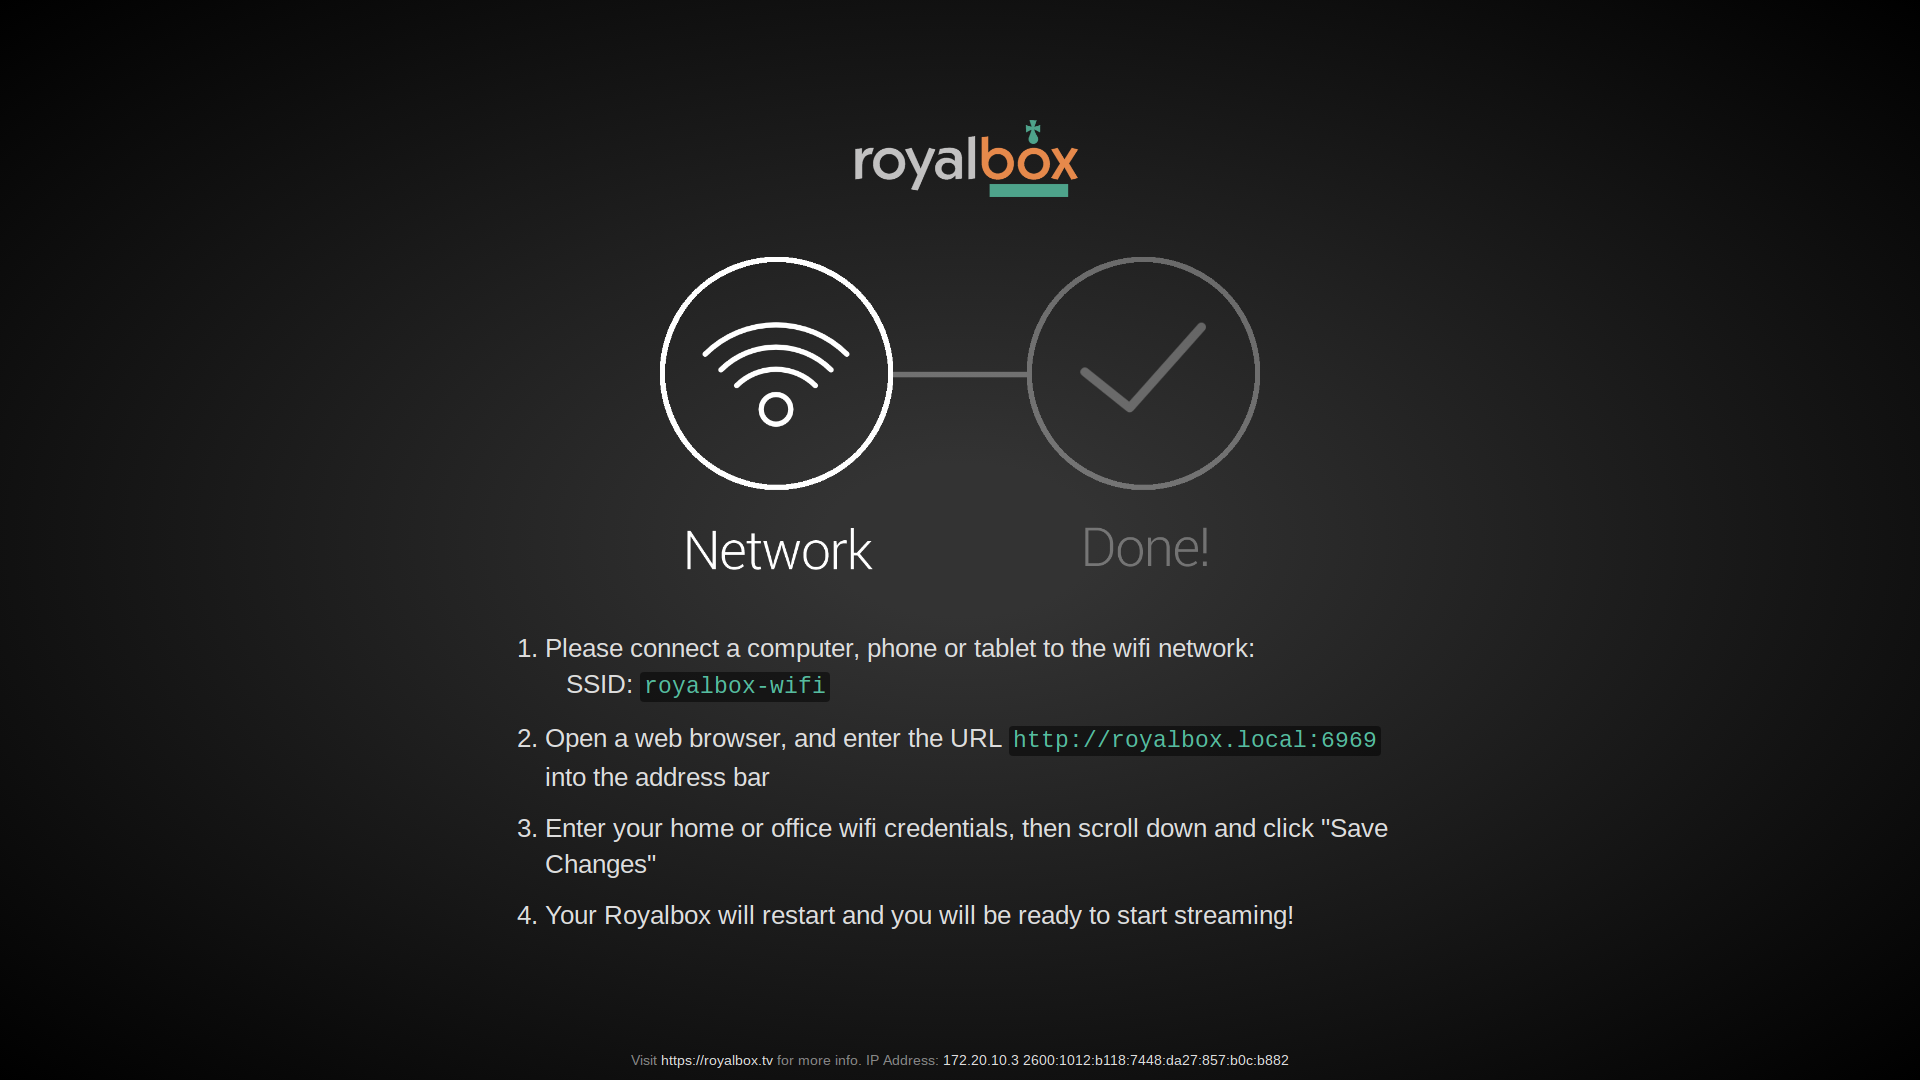
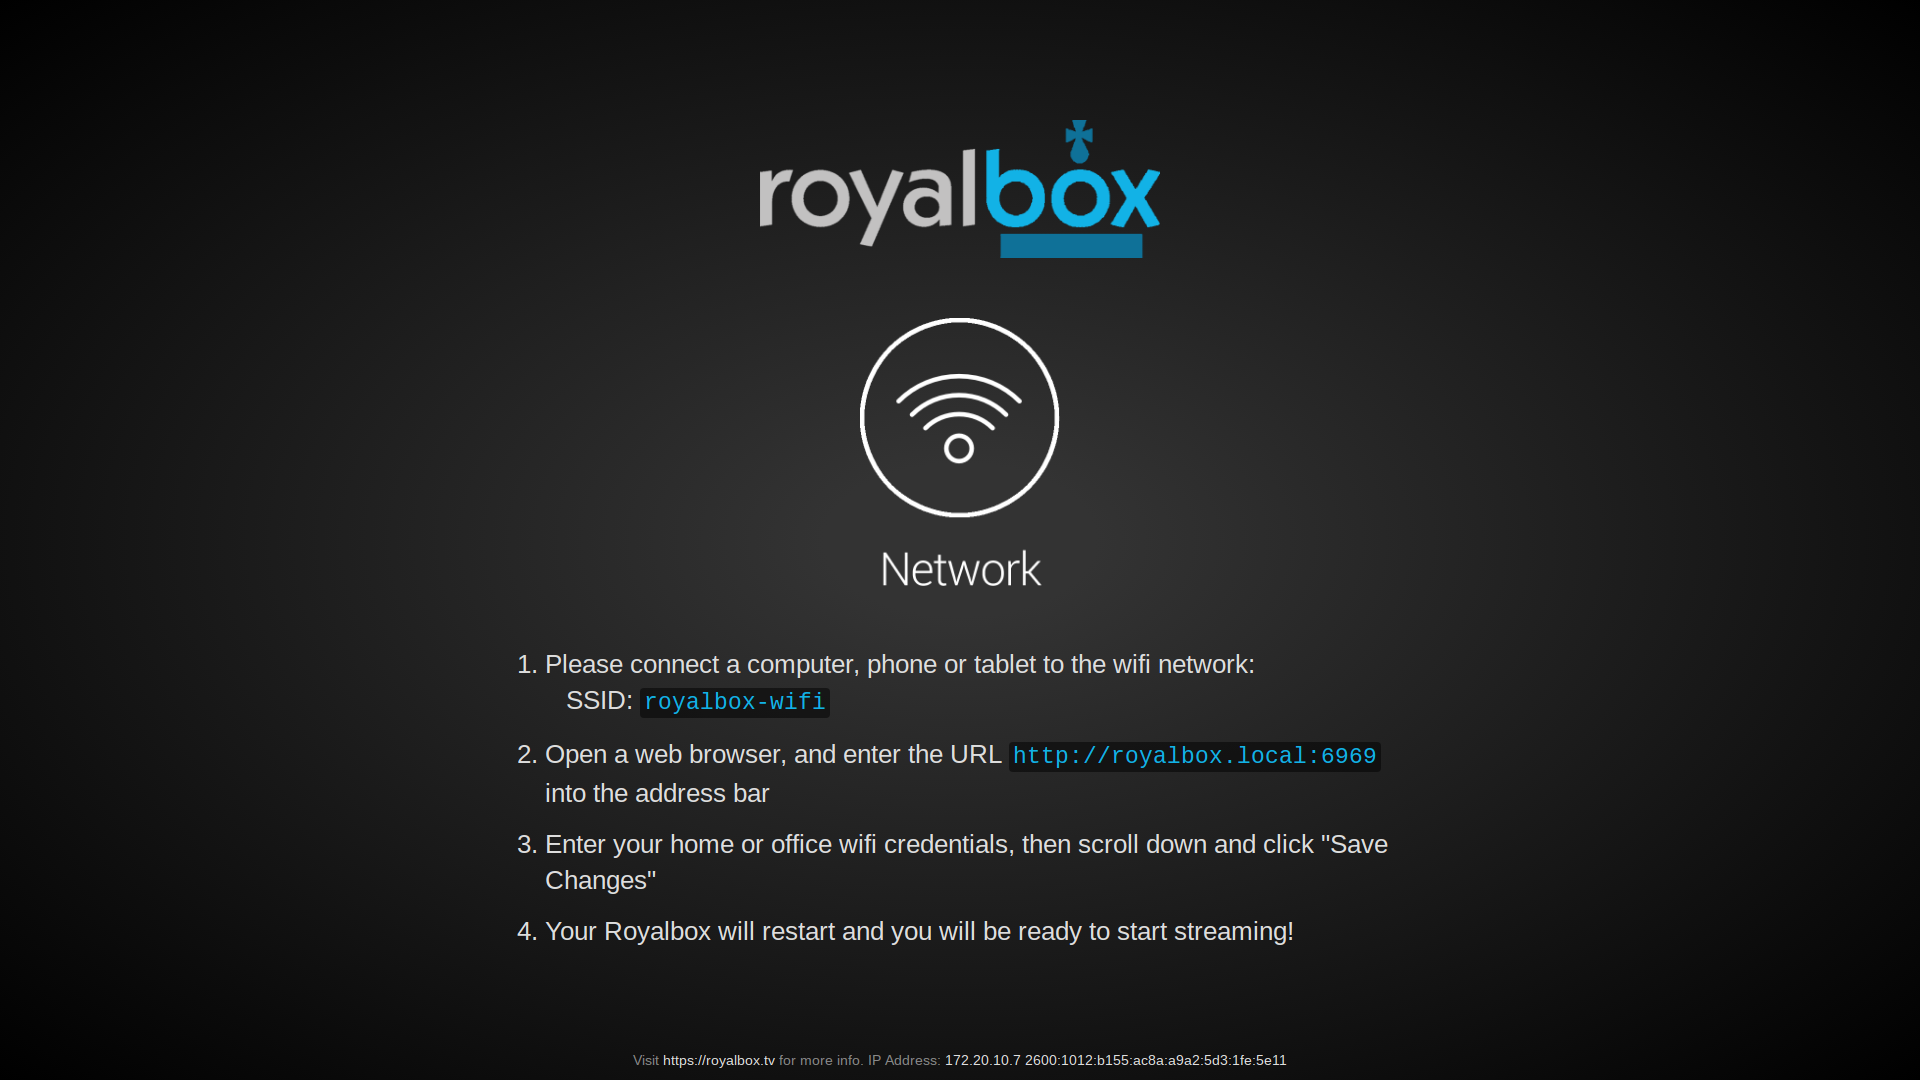
screens

diff --git a/var/www/html/css/cover.css b/var/www/html/css/cover.css
@@ -40,7 +40,7 @@ body {
 }
 code {
 	background-color: rgba(0,0,0,.5);
-	color: #56bc9f;
+	color: #12b2e6;
 }
 .lead {
 	font-size: 26px;

diff --git a/var/www/html/css/style.css b/var/www/html/css/style.css
@@ -45,7 +45,7 @@ body {
 }
 code {
 	background-color: rgba(0,0,0,.5);
-	color: #56bc9f;
+	color: #12b2e6;
 }
 .lead {
 	font-size: 26px;

diff --git a/var/www/html/welcome.php b/var/www/html/welcome.php
@@ -82,7 +82,7 @@ $serial_num = trim(file_get_contents('/var/www/serial_num.txt'));
 			  </div>
 			  <div <?php echo ($is_connected) ? 'style="display:none"' : '' ?>>
 				  
-				  <img src="/img/step1.png" style="max-width:600px;"><br/><br/><br/><br/>
+				  <img src="/img/step1.png" style="max-width:200px;"><br/><br/><br/><br/>
 				  
 				  <div class="text-left lead" style="line-height: 2em;">
 			      <ol>
@@ -97,7 +97,7 @@ $serial_num = trim(file_get_contents('/var/www/serial_num.txt'));
 	          
 	          <div  <?php echo (!$is_connected) ? 'style="display:none"' : '' ?>>
 		          
-		          <img src="/img/step2.png" style="max-width:600px;"><br/><br/><br/><br/>
+		          <img src="/img/step2.png" style="max-width:200px;"><br/><br/><br/><br/>
 		          
 		         
 		          <div class="lead" style="line-height: 2em;">
